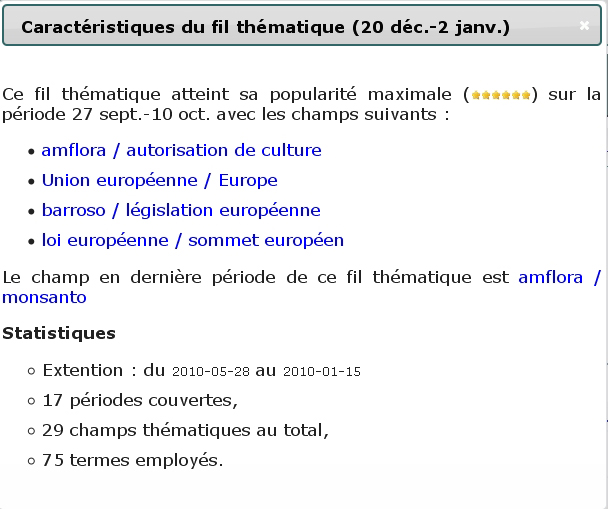
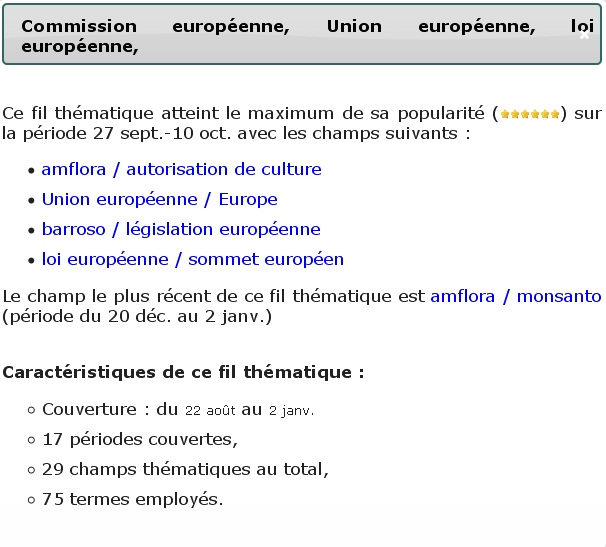
aide.php

Changed region(s): [[0.0, 0.0, 1.0, 1.0]]

diff --git a/mesr/aide.php b/mesr/aide.php
@@ -133,27 +133,28 @@ echo "<tr valign=top><td width=2.5%></td><td style=\"font-size:small;\">";
 echo "
 <h3>Exploration à l'aide des fils thématiques</h3>
 <p>Contrairement aux explorations s'appuyant sur des termes choisis <i>a priori</i>
-ayant pour entrée le niveau 'micro', les entrées par les niveaux <a href=aide.php?selectedTab=2><font color=blue>'meso' et 'macro'</font></a> permettent
+ayant pour entrée le niveau 'micro', les entrées par les niveaux
+<a href=aide.php?selectedTab=2><font color=blue>'meso' et 'macro'</font></a> permettent
 de sélectionner des sujets à partir de leur profil d'évolution et donc de suggérer des
 parcours et des sujets à étudier. Les fils thématiques ont des scores, représentés par des étoiles
 qui indiquent de degré d'attention maximal que la blogosphère leur a accordé.
 </p>
-<p>La liste des fils thématiques permet d'accéder aux champ thématiques.
+<p>La <a href='phylo.php'><font color=blue>liste des fils thématiques</font></a> permet d'accéder aux champ thématiques.
 <ul>
 <li type=circle>Un clic sur le score d'un fil thématique permet de se rendre directement à la période où
 celui-ci a suscité le plus d'activité,
-<li type=circle> Un clic sur le nom d'un fil thématique permet de se rendre
-sur son champ thématique le plus récent.
-</ul></p>
+</ul>
 <center><img src='images/FTlink.jpg' border=1></a><br/></center>
+<ul><li type=circle> Un clic sur le nom d'un fil thématique vous donne des informations sur le fil thématique
+et vous propose des liens vers des périodes remarquable de de fil thématique.
+</ul>
+<center><img src='images/FTpopup.jpg'  border=1></a><br/></center>
+</p>
 
 <p>Lors du parcours des champ thématiques, le nom du fil thématique auquel celui-ci est rattaché
- est rappelé en dessous du nom de celui-ci. </p>
-<center><img src='images/FT.jpg'  border=1></a><br/></center>
+ est rappelé en dessous du nom de celui-ci et est également cliquable pour obtenir des informations. </p>
 
-<p>Dans cette vue, un clic sur le nom d'un fil thématique vous donne des informations sur le fil thématique
-et vous propose des liens vers des périodes remarquable de de fil thématique.
-<center><img src='images/FTpopup.jpg'  border=1></a><br/></center>
+<center><img src='images/FT.jpg'  border=1></a><br/></center>
 
 ";
 echo "</td><td width=2.5%></td></tr></table>
